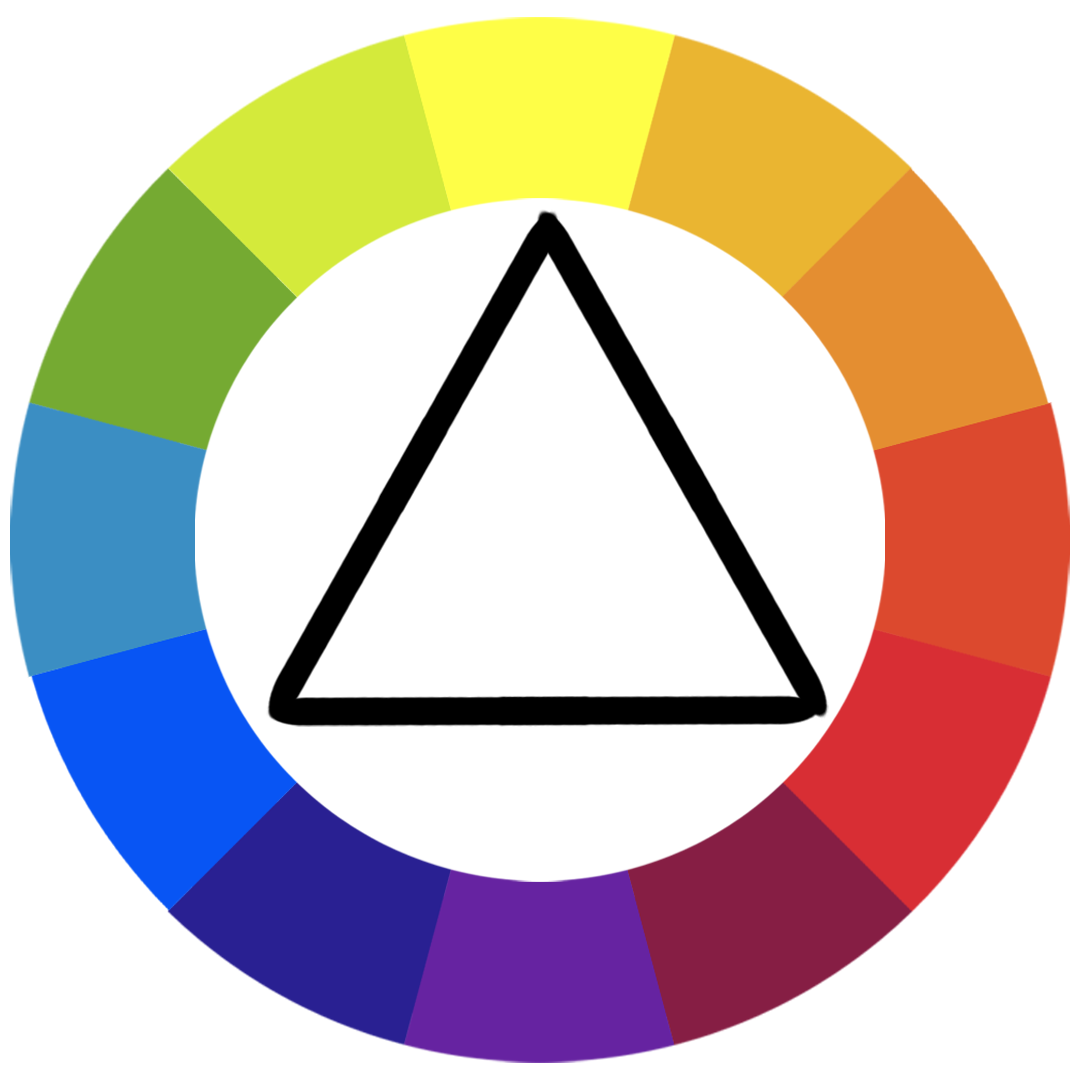
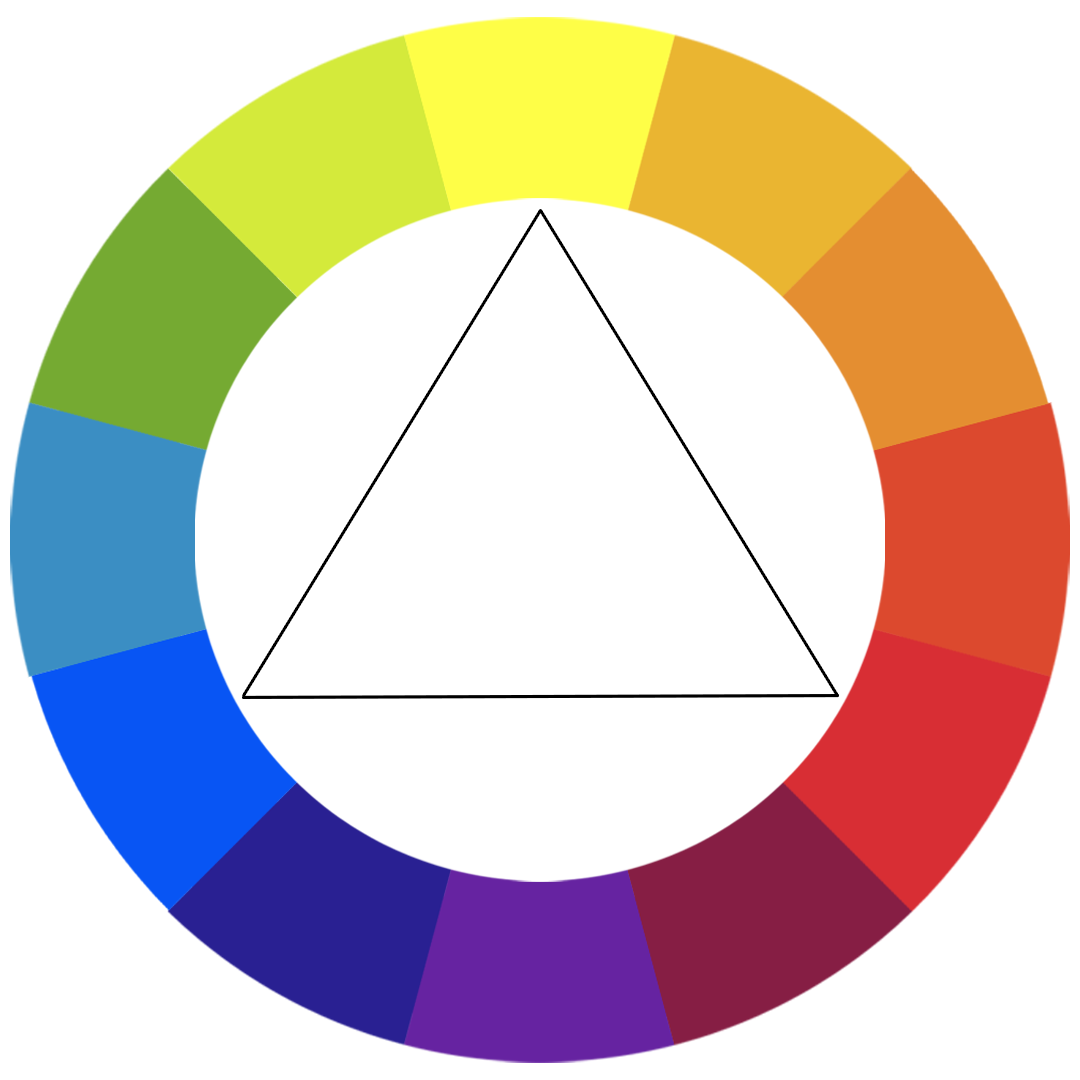
update cross check

Changed region(s): [[0.2139, 0.1833, 0.7639, 0.6722]]

diff --git a/README.md b/README.md
@@ -1,5 +1,7 @@
-# Web Design School
-There are 4 Design Principles
+<h1 align=center>Web Design Concepts</h1>
+
+<p>There are 4 Main Design Principles</p>
+
 1. Color Theory
 2. Typography
 3. User Interface Design (UI)
@@ -40,8 +42,7 @@ There are 4 Design Principles
 <img src="imgs/c3.png" width=20%>
 </div>
 
-<h6> Colors</h6>
-<p>other schemes</p>
+<h6>Other schemes</h6>
 <div align=center>
 <img src="imgs/triangular.png" width=25%>
 <img src="imgs/FourColors.png" width=25%>
@@ -49,7 +50,6 @@ There are 4 Design Principles
 
 <h6>For more</h6>
 Vsit: <a href="https://color.adobe.com/create/color-wheel">Adobe Colors</a>, <a href="https://colorhunt.co/">Color hunt</a>
-
 
 <h2 align=center>User Interface</h2>
 1. Hierarchy <br>
@@ -76,7 +76,6 @@ Vsit: <a href="https://color.adobe.com/create/color-wheel">Adobe Colors</a>, <a 
 <img src="imgs/WebDesignExample5.jpg" width=45%>
 </div>
 
-
 <h4>3. Alignments</h4>
 <div align=center>
 <img src="imgs/WebDesignExample6.jpg" width=75%>
@@ -85,15 +84,15 @@ Vsit: <a href="https://color.adobe.com/create/color-wheel">Adobe Colors</a>, <a 
 <img src="imgs/a2.jpg" width=45%>
 </div>
 
-
 <h4>4. White Spaces (Around objects)</h4>
 <div align=center>
 <img src="imgs/WebDesignExample7.jpg" width=75%>
 </div>
 
-
-
 <h4>5. Audience</h4>
 <div align=center>
 <img src="imgs/WebDesignExample8.jpg" width=75%>
 </div>
+
+<h2 align=center>User Experience</h2>
+<h6 align=center >Updating soon..</h6>
